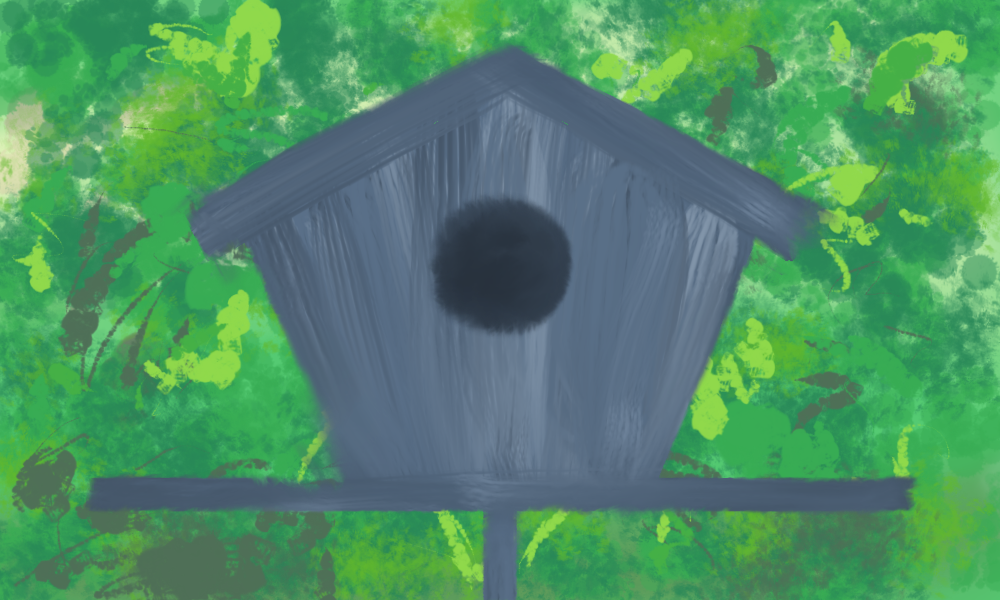
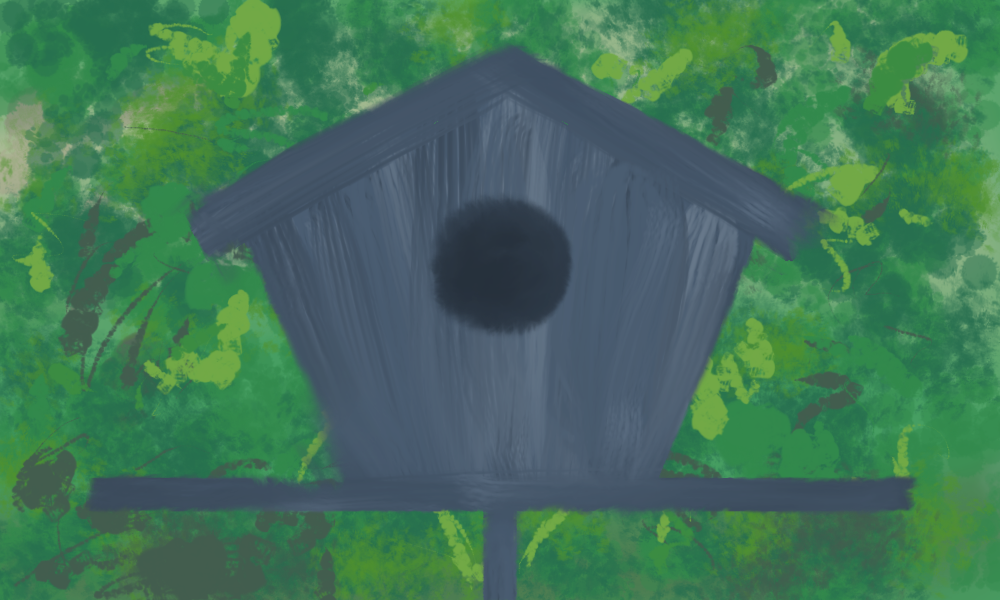
turned down the brightness a bit

diff --git a/assets/css/style.css b/assets/css/style.css
@@ -1,6 +1,6 @@
 
 .background-img{
-    background-image: url(../images/bird-feeder-background.png);
+    background-image: url(../images/bird-feeder-background-lighter.png);
     background-size: cover;
 
     background-color: green;
